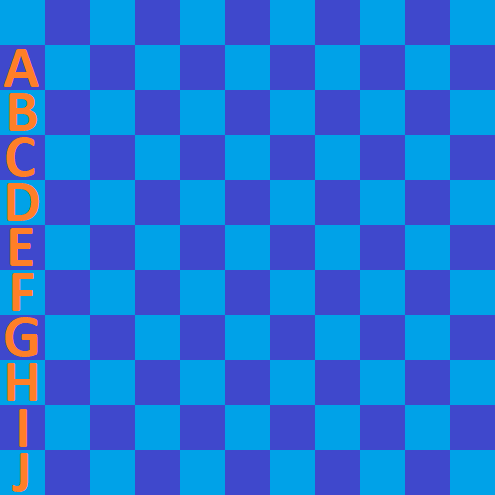
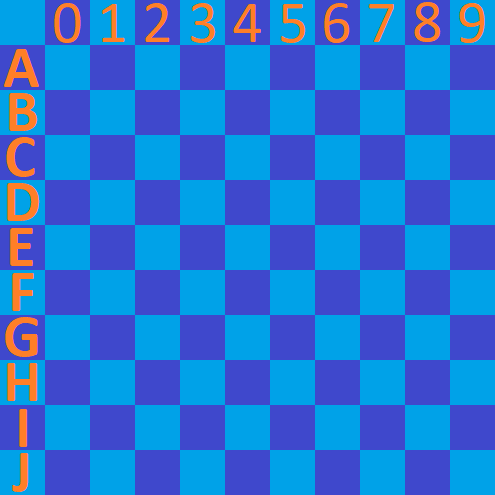
Add simple grids to game.

Changed region(s): [[0.2121, 0.0, 0.7273, 0.0909], [0.7273, 0.0, 1.0, 0.0909], [0.0909, 0.0, 0.1818, 0.0909]]

diff --git a/docs/index.html b/docs/index.html
@@ -12,6 +12,7 @@
             var game = new Phaser.Game(1280, 720, Phaser.AUTO, '', { preload: preload, create: create });
 
             function preload () {
+                game.load.image('grid', './assets/grid2.png');
                 game.load.image('carrier', './assets/carrierHull.png');
                 game.load.image('battleship', './assets/battleshipHull.png');
                 game.load.image('cruiser', './assets/cruiserHull.png');
@@ -20,8 +21,8 @@
             }
 
             function create () {
-                var carrier = game.add.sprite(game.world.centerX, game.world.centerY, 'carrier');
-                carrier.anchor.setTo(0.5, 0.5);
+                var targetGrid = game.add.sprite(90, 112, 'grid');
+                var shipGrid = game.add.sprite(660, 112, 'grid');
             }
         };
 
